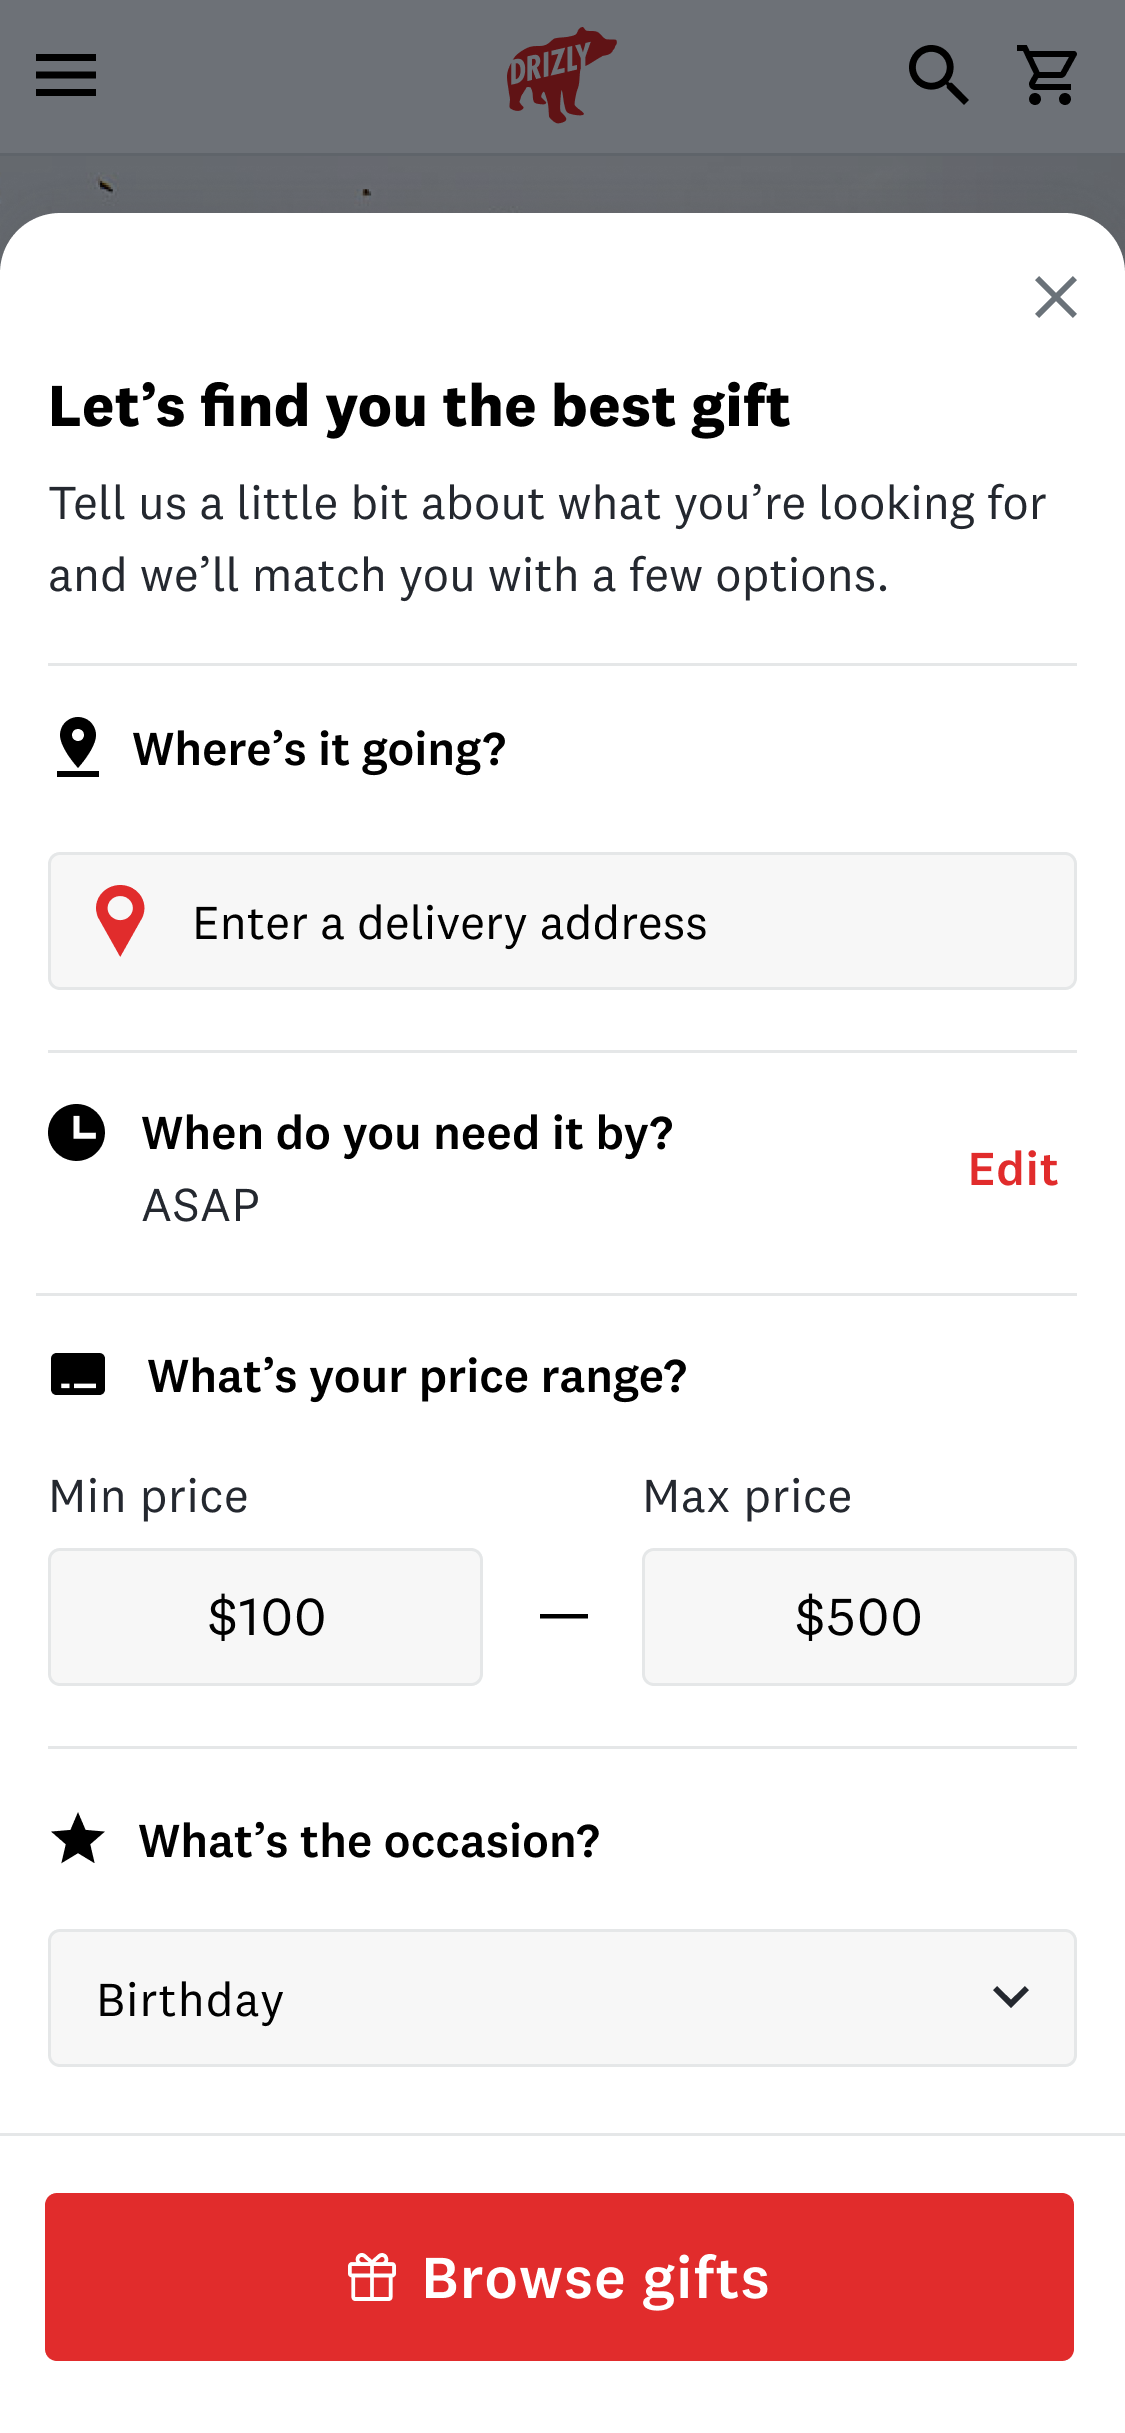
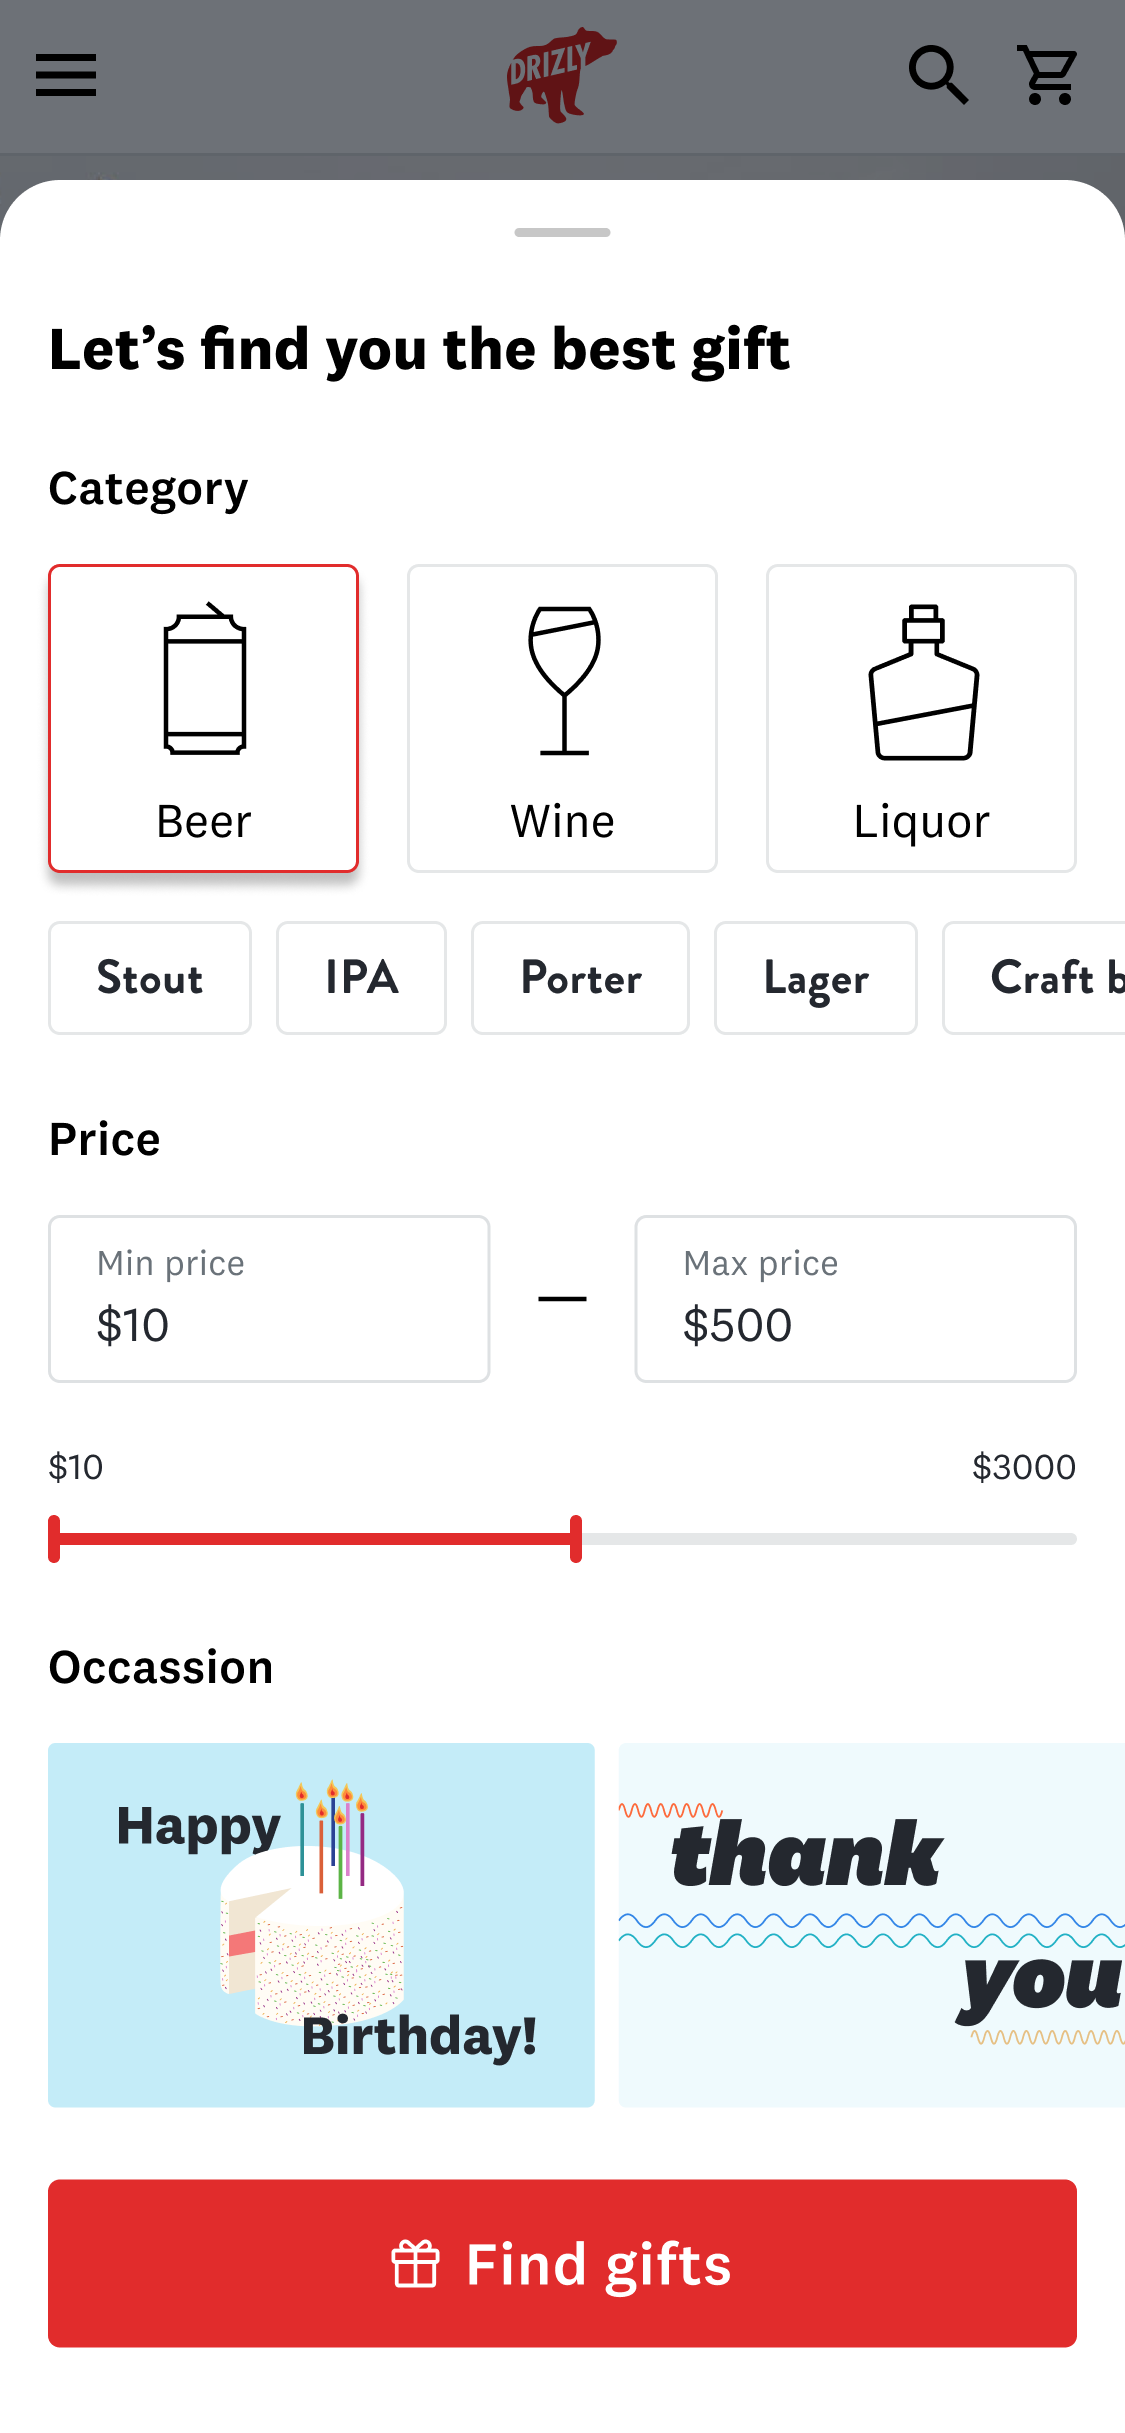
copy

diff --git a/gifting-program.html b/gifting-program.html
@@ -527,7 +527,7 @@
               </div>
               <div class="col-lg-4">
                 <div class="card priority">
-                  <h2>Transform emails</h2>
+                  <h2>Transform email communications</h2>
                   <!-- <h4>Redo our messaging. <a href="transactional-emails.html">Read more.</a></h4> -->
                 </div>
               </div>
@@ -636,7 +636,7 @@
 
             
 
-             <!-- <h5 class="down">Final designs</h5>  -->
+             <h5 class="down">Final designs</h5> 
             <!-- <img src="gift-sender/designs.png"  class="img-fluid in-line mx-auto d-block down" alt="My first attempt at a multi-step experience" > -->
             <div class="row stats">
                <div class="col-lg-3">
@@ -811,27 +811,59 @@
 
            
             <div class="row down-small">
-              <div class="col-md-6">
-                <img src="gift-sender/discovery_draft.png"  class="img-fluid in-line mx-auto d-block " alt="DoorDash gifting experience" >
+              <div class="col-md-8">
+                <img src="gift-sender/discovery_draft1.png"  class="img-fluid in-line mx-auto d-block " alt="DoorDash gifting experience" >
                 
               </div>
               
-               <div class="col-md-3">
+               <!-- <div class="col-md-3">
                 <img src="gift-sender/discovery_draft1.gif"  class="img-fluid in-line mx-auto d-block " alt="DoorDash gifting experience" >
                 
+              </div> -->
+              <div class="col-md-4">
+                 <p>I started at the top by exploring what a gifting home experience might look like. It felt necessary to differentiate the gift shopping experience from that of normal shoppers, especially considering a large prorpotion of gift senders are first time Drizly shoppers.</p>
+                 <p>I included the ability to shop by occasion as well as copy to explain how the gifting process works.</p>
+              </div>
+               <div class="col-md-3"> 
+                <p>Then, we looked at a guided gifting quiz for shoppers who need the most amount of handholding to find the perfect gift.</p>
+                <p>Initially, we experimented with a single page "quiz," which was less quiz and more a set of inputs.</p>
+                <p>However, this gave us a very limited number of questions we could ask, as well minimal space for brand elements.</p>
+              </div>
+               <div class="col-md-3">
+                  <img src="gift-sender/1q_quiz.png"  class="img-fluid in-line mx-auto d-block border" alt="DoorDash gifting experience" >
+
+              </div>
+               <div class="col-md-3">
+                  <img src="gift-sender/Gifting_375px.png"  class="img-fluid in-line mx-auto d-block border" alt="DoorDash gifting experience" >
+
               </div>
               <div class="col-md-3">
-                 <p>Initially I thought about separating the gifting info from the checkout step, making it an interstitial space between cart and placing the order. The idea was to avoid confusion between the recipient info and the sender info and make the review step truly just "review," with no actions needed.</p>
+                  <img src="gift-sender/Gifting_375px_b.png"  class="img-fluid in-line mx-auto d-block border" alt="DoorDash gifting experience" >
+
               </div>
+             
               <div class="col-md-8">
-                <img src="gift-sender/earlyflow2.png"  class="img-fluid in-line mx-auto d-block" alt="DoorDash gifting experience" >
+                <img src="gift-sender/quizv0.png"  class="img-fluid in-line mx-auto d-block" alt="DoorDash gifting experience" >
                 
               </div>
               <div class="col-md-4">
-                <p>
-              Ultimately this version felt convoluted when the user needed to make any edits to their selections, where on iOS it was more natural to go backwards, on web it felt clunky and disjointed. User research also showed that people were frustrated with the number of discrete steps, so I made the choice to integrate all the info into one page, organized by type of information.
-            </p>
+                <p>We landed on a multi-step quiz, which was significantly more flexible, but we still had to narrow on on exactly which pieces of information were important for both our data science team and for the user to feel the quiz was useful to them.</p>
               </div>
+               <div class="col-md-8">
+                <img src="gift-sender/quiz_testing.png"  class="img-fluid in-line mx-auto d-block" alt="DoorDash gifting experience" >
+                
+              </div>
+              <div class="col-md-4">
+                <p>We performed some user testing on this version of the quiz to get a sense of shoppers interest and to undertand what they thought of the results. We found that the quiz was too short for users to trust the recommendations and that it did not feel personalized.</p>
+              </div>
+               <div class="col-md-8">
+                <img src="gift-sender/guided.gif"  class="img-fluid in-line mx-auto d-block border" alt="DoorDash gifting experience" >
+                
+              </div>
+              <div class="col-md-4">
+                <p>We then built an MVP version of the quiz which asked more specific questions about the recipients sub-category preferences (e.g. white wine vs red) and utilized the recipients name to make the experience feel more tailored.</p>
+              </div>
+              
             </div>
 
               
@@ -852,25 +884,31 @@
 
             
 
-             <!-- <h5 class="down">Final designs</h5>  -->
+             <h5 class="down">Final designs</h5> 
             <!-- <img src="gift-sender/designs.png"  class="img-fluid in-line mx-auto d-block down" alt="My first attempt at a multi-step experience" > -->
             <div class="row stats">
-               <div class="col-lg-4">
+               <div class="col-lg-3">
                 <div class="card-solution">
                   <!-- <p>Add clear delineation & make recipient email optional</p>  -->
-                  <p>Add clear hierarchy of info throughout checkout</p> 
+                  <p>Tailored gifting home and shop by occasion navigation</p> 
                 </div>
               </div>
-              <div class="col-lg-4">
+              <div class="col-lg-3">
                 <div class="card-solution">
                   <!-- <p>Add clear delineation & make recipient email optional</p>  -->
-                  <p>Make recipient email address an optional field</p> 
+                  <p>Direct gift shoppers to the gifting page immediately</p> 
                 </div>
               </div>
-              <div class="col-lg-4">
+              <div class="col-lg-3">
                 <div class="card-solution">
                   <!-- <p>Add clear delineation & make recipient email optional</p>  -->
-                  <p>Eliminate surprise gifting and clearly explain next steps to senders</p> 
+                  <p>Occasion pages to help find specific, relevant products</p> 
+                </div>
+              </div>
+              <div class="col-lg-3">
+                <div class="card-solution">
+                  <!-- <p>Add clear delineation & make recipient email optional</p>  -->
+                  <p>Guided gifting quiz to provide tailored recommendations</p> 
                 </div>
               </div>
             </div>
